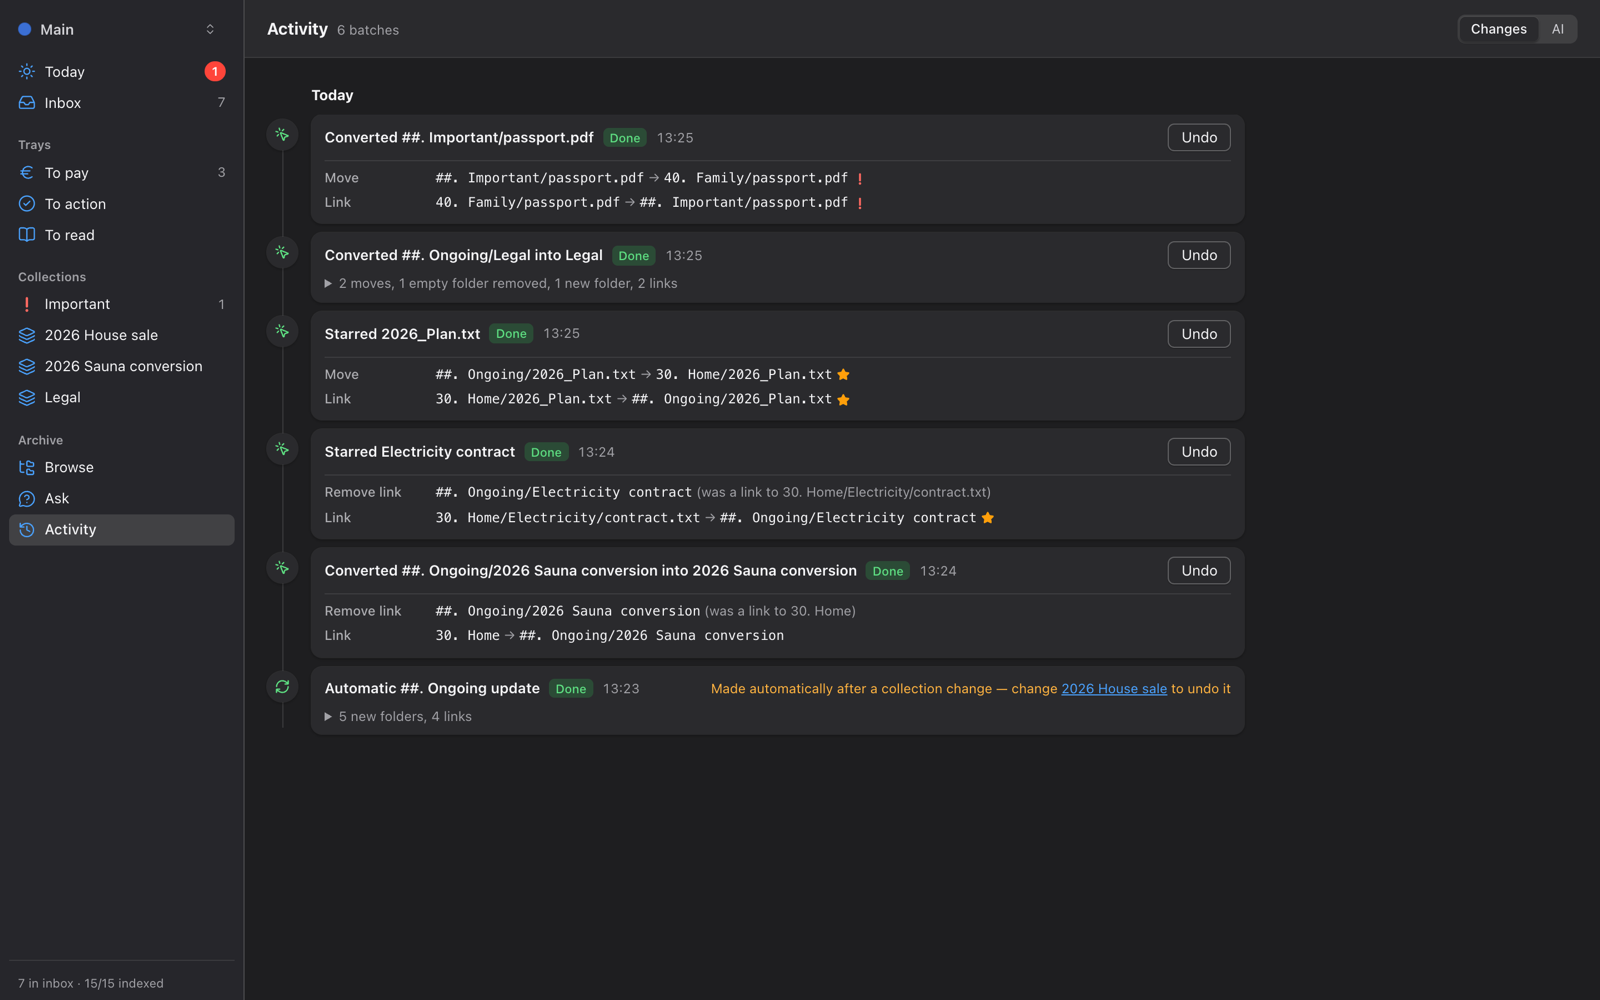
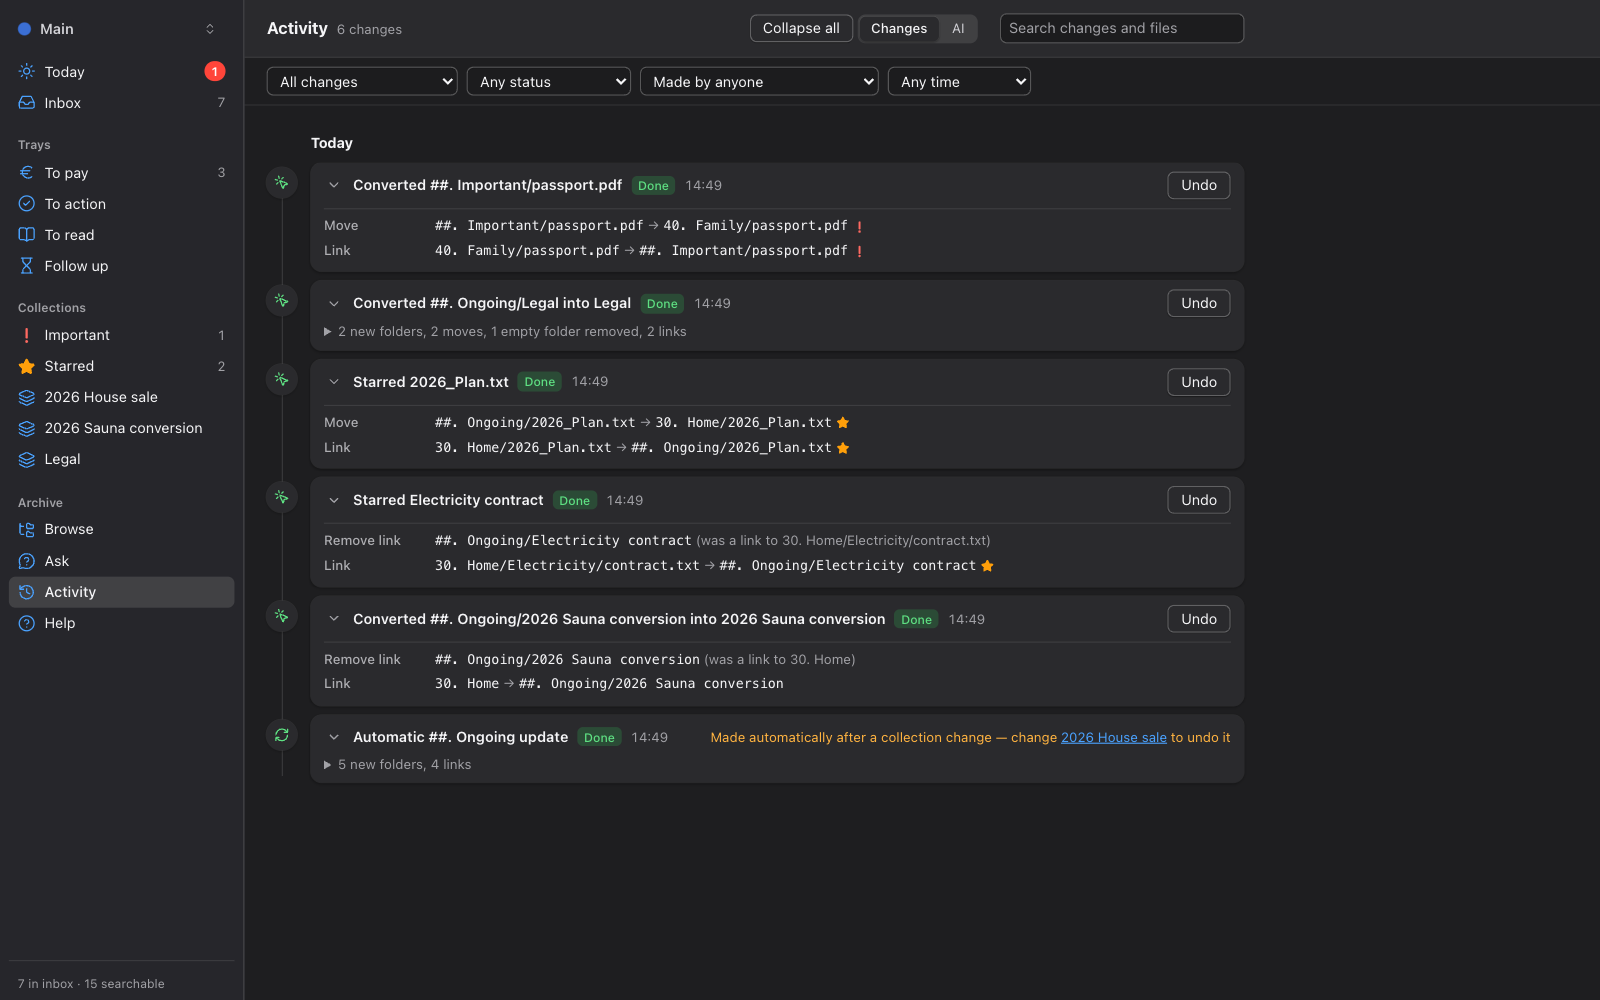
docs: refresh the README and its screenshots after #15 to #18
The screenshots showed the old Browse and collection panels, no Follow up tray, no
Starred row and the old key hints. All twelve are retaken in light and dark, and a
third row adds the collection panel and Activity → AI with the excluded folders. The
text mentions folders in collections and the excluded-folders list, and drops em
dashes.

scripts/screenshots stages a fresh demo archive through the API (only the demo server
on localhost) and takes the shots with Playwright and the installed Chrome, so the next
refresh is two commands.

diff --git a/scripts/screenshots/stage.py b/scripts/screenshots/stage.py
@@ -1,0 +1,62 @@
+"""Stage a fresh demo archive the way the README screenshots show it: Ongoing and
+Important converted, three bills in To pay, a folder excluded from AI. It talks only to
+the demo server on localhost:8766, never to a real archive.
+
+    cd backend && uv run python -m dam.demo /tmp/dam-shots
+    uv run dam --data-dir /tmp/dam-shots/data serve --no-open --port 8766
+    python3 scripts/screenshots/stage.py        # once, on the fresh demo
+    uv run --no-project --with playwright python scripts/screenshots/shoot.py docs/images
+
+``shoot.py`` uses the installed Google Chrome (``channel="chrome"``).
+"""
+
+import json
+import sys
+import urllib.request
+
+BASE = "http://localhost:8766"
+
+
+def call(method: str, path: str, body: dict | None = None):
+    data = None if body is None else json.dumps(body).encode()
+    req = urllib.request.Request(BASE + path, data=data, method=method, headers={"Content-Type": "application/json", "Origin": BASE})
+    try:
+        with urllib.request.urlopen(req) as r:
+            raw = r.read()
+            return json.loads(raw) if raw else None
+    except urllib.error.HTTPError as e:
+        sys.exit(f"{method} {path}: {e.code} {e.read().decode()}")
+
+
+def convert(kind: str, body: dict) -> None:
+    left = {e["rel"] for e in call("GET", f"/api/{kind}/entries") if not e.get("managed")}
+    if body["rel"] not in left:
+        print("already converted", body["rel"])
+        return
+    plan = call("POST", f"/api/{kind}/preview", body)
+    call("POST", f"/api/{kind}/convert", {**body, "fingerprint": plan["fingerprint"]})
+    print("converted", body["rel"])
+
+
+# Ongoing: two collections, two stars (as in the old Activity shot)
+convert("ongoing", {"rel": "##. Ongoing/2026 Sauna conversion", "collection": "2026 Sauna conversion"})
+convert("ongoing", {"rel": "##. Ongoing/Electricity contract", "star": True})
+convert("ongoing", {"rel": "##. Ongoing/2026_Plan.txt", "star": True, "destination": "30. Home"})
+convert("ongoing", {"rel": "##. Ongoing/Legal", "collection": "Legal", "destination": "30. Home/Legal"})
+convert("important", {"rel": "##. Important/passport.pdf", "destination": "40. Family"})
+
+# To pay: three bills with a payee and a title
+BILLS = [
+    ("demo-12", "Water bill — Q4", "Example Water Co"),
+    ("demo-4", "Electricity — September", "Northpower"),
+    ("demo-3", "Home insurance", "Northwind Insurance"),
+]
+for drive_id, title, payee in BILLS:
+    created = call("POST", "/api/items/quick", {"tray": "to-pay", "drive_ids": [drive_id]})["created"]
+    item = created[0]
+    call("PATCH", f"/api/items/{item['id']}", {"title": title, "fields": {**item["fields"], "payee": payee}})
+    print("item", item["id"], title)
+
+# AI: exclude the family folder (it exists in the demo) besides the defaults
+call("PUT", "/api/ai/exclude-folders", {"folders": ["40. Family", "50. Medical"]})
+print("excluded folders set")

diff --git a/scripts/screenshots/shoot.py b/scripts/screenshots/shoot.py
@@ -1,0 +1,71 @@
+"""The README screenshots, light and dark, from the staged demo server (see stage.py):
+1600x1000 PNGs written to the folder given; more arguments take only those shots.
+
+    uv run --no-project --with playwright python scripts/screenshots/shoot.py docs/images [inbox ...]
+"""
+
+import sys
+from datetime import UTC, datetime
+from pathlib import Path
+
+from playwright.sync_api import sync_playwright
+
+BASE = "http://localhost:8766"
+OUT = Path(sys.argv[1])
+ONLY = set(sys.argv[2:])
+
+# A demo is staged whenever it is run: show its times as about 14:00 (a fixed-offset zone
+# from UTC-12 to UTC+14; the Etc/GMT names have the sign the other way round).
+_offset = (14 - datetime.now(UTC).hour + 12) % 24 - 12
+TZ = f"Etc/GMT{-_offset:+d}"
+
+
+def paymode(page):
+    page.get_by_role("button", name="Show large barcode").click()
+    page.get_by_role("dialog").wait_for()
+
+
+def expand(page):
+    page.get_by_role("button", name="Expand all").click()
+
+
+def ai(page):
+    page.get_by_role("button", name="AI", exact=True).click()
+    page.wait_for_selector("[aria-label='Excluded folders']")
+
+
+SHOTS = {
+    "inbox": ("/inbox?file=demo-12", None),
+    "today": ("/", None),
+    "paymode": ("/trays/to-pay?item=1", paymode),
+    "browse": ("/browse?path=30.%20Home&select=demo-15", None),
+    "activity": ("/activity", expand),
+    "collection": ("/collections/3", None),
+    "ai-settings": ("/activity", ai),
+}
+
+with sync_playwright() as p:
+    browser = p.chromium.launch(channel="chrome")
+    for scheme in ("light", "dark"):
+        ctx = browser.new_context(
+            viewport={"width": 1440, "height": 900},
+            device_scale_factor=1600 / 1440,
+            color_scheme=scheme,
+            timezone_id=TZ,
+        )
+        page = ctx.new_page()
+        for name, (url, then) in SHOTS.items():
+            if ONLY and name not in ONLY:
+                continue
+            page.goto(BASE + url)
+            page.wait_for_load_state("networkidle")
+            if then:
+                then(page)
+                page.wait_for_load_state("networkidle")
+            page.mouse.move(1439, 899)  # no hover highlight
+            page.wait_for_timeout(800)  # previews and fonts settle
+            path = OUT / f"{name}-{scheme}.png"
+            page.screenshot(path=str(path))
+            print(path.name)
+        ctx.close()
+    browser.close()

diff --git a/README.md b/README.md
@@ -7,7 +7,7 @@
 **Your paperwork, filed and findable.** Digital Archive Manager (`dam`) is a local-first
 app for the documents you keep in Google Drive, OneDrive, Dropbox, iCloud Drive or any
 plain folder. It reads every document (with OCR for scans), suggests a name and a folder
-for each new one, keeps your bills and to-dos in trays, and lets you search everything —
+for each new one, keeps your bills and to-dos in trays, and lets you search everything,
 without ever deleting a file.
 
 <picture>
@@ -25,15 +25,17 @@ without ever deleting a file.
   dam and your archive is still just folders and files.
 - **Private.** Everything runs on your computer; the app only listens on `127.0.0.1`.
   The optional AI help sends text only when you click, after showing you exactly what will
-  be sent.
+  be sent, and never from the folders you exclude (by default medical, work and other people's
+  documents; change the list under Activity → AI).
 - **Fast filing.** New documents land in an inbox. dam reads them, proposes a name, a
   folder (from your rules, or from where similar files went) and tags, and files them with
   one key.
 - **Bills that pay themselves (almost).** Due dates, amounts, IBANs and references are
   picked up from the scan. The To pay tray shows what is due, with a copy button on every
-  field — and for Finnish bills a bank barcode to scan with your banking app.
+  field, and for Finnish bills a bank barcode to scan with your banking app.
 - **Collections for things in progress.** Group the documents of a house sale, a
-  renovation or a court case, with notes and a checklist, without moving them.
+  renovation or a court case, with notes and a checklist, without moving them. Add a whole
+  folder and everything in it belongs, including what you put in it later.
 
 <table>
   <tr>
@@ -41,16 +43,24 @@ without ever deleting a file.
     <td><picture><source media="(prefers-color-scheme: dark)" srcset="docs/images/paymode-dark.png"><img alt="Pay mode: payee, IBAN, reference, amount and a bank barcode in large type" src="docs/images/paymode-light.png"></picture></td>
   </tr>
   <tr>
-    <td align="center"><b>Today</b> — what needs you, at a glance</td>
-    <td align="center"><b>Pay mode</b> — check the details, scan, done</td>
+    <td align="center"><b>Today</b>: what needs you, at a glance</td>
+    <td align="center"><b>Pay mode</b>: check the details, scan, done</td>
   </tr>
   <tr>
     <td><picture><source media="(prefers-color-scheme: dark)" srcset="docs/images/browse-dark.png"><img alt="Browse: folders, search and a preview of the selected file" src="docs/images/browse-light.png"></picture></td>
     <td><picture><source media="(prefers-color-scheme: dark)" srcset="docs/images/activity-dark.png"><img alt="Activity: every change in plain words, each with its own Undo" src="docs/images/activity-light.png"></picture></td>
   </tr>
   <tr>
-    <td align="center"><b>Browse</b> — folders, full-text search, Quick Look</td>
-    <td align="center"><b>Activity</b> — every change, each with Undo</td>
+    <td align="center"><b>Browse</b>: folders, full-text search, Quick Look</td>
+    <td align="center"><b>Activity</b>: every change, each with Undo</td>
+  </tr>
+  <tr>
+    <td><picture><source media="(prefers-color-scheme: dark)" srcset="docs/images/collection-dark.png"><img alt="A collection: its groups, what needs attention, and the selected file with its preview, group and actions" src="docs/images/collection-light.png"></picture></td>
+    <td><picture><source media="(prefers-color-scheme: dark)" srcset="docs/images/ai-settings-dark.png"><img alt="Activity, AI: this month's spend, the AI switch and the folders that are never sent" src="docs/images/ai-settings-light.png"></picture></td>
+  </tr>
+  <tr>
+    <td align="center"><b>Collections</b>: a house sale in one place, nothing moved</td>
+    <td align="center"><b>AI settings</b>: spend, the switch and the folders never sent</td>
   </tr>
 </table>
 
@@ -74,8 +84,8 @@ On first start dam asks which folder is your archive. It finds the folders of Go
 Drive, OneDrive, Dropbox, iCloud Drive, Nextcloud and others for you, or you pick any
 folder. Then either:
 
-- **use an existing archive as it is** — dam indexes it and changes nothing until you ask, or
-- **start a new archive** — pick a starter layout (Household, Minimal or your own),
+- **use an existing archive as it is**: dam indexes it and changes nothing until you ask, or
+- **start a new archive**: pick a starter layout (Household, Minimal or your own),
   preview the folders, and create them (undoable, like everything else).
 
 **Just want to look around first?** Create a demo archive with made-up documents:
@@ -86,7 +96,7 @@ uv run dam archives add Demo --demo --folder /tmp/dam-demo-archive
 uv run dam --archive Demo serve --port 8766
 ```
 
-You can keep several archives — say your real one and a test one — each with its own
+You can keep several archives (say your real one and a test one), each with its own
 settings, and switch between them from the top of the sidebar.
 
 ## Platform support
@@ -109,7 +119,7 @@ Details are in the [technical reference](docs/reference.md#platform-support).
 - [Technical reference](docs/reference.md): install, the command line, config files and
   rules, the API and the safety model in detail
 - [Changelog](CHANGELOG.md)
-- [Contributing](CONTRIBUTING.md) — development setup, tests and the safety rules every
+- [Contributing](CONTRIBUTING.md): development setup, tests and the safety rules every
   change must keep
 - [Security policy](SECURITY.md)
 
